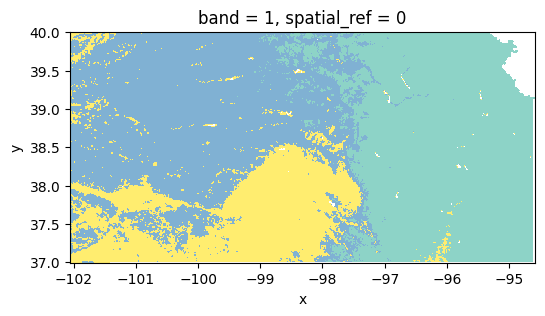
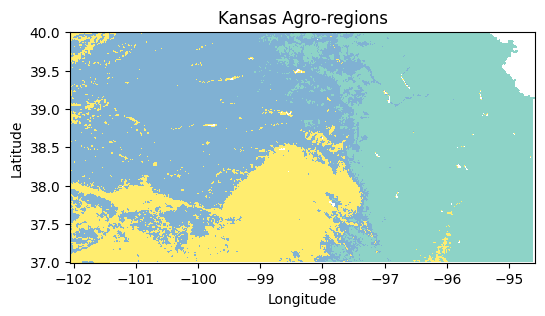
Fix map labels

Changed region(s): [[0.3431, 0.0285, 0.7486, 0.1139], [0.0, 0.3987, 0.0624, 0.5696], [0.4679, 0.9114, 0.6239, 0.9684]]

diff --git a/docs/exercises/clustering_kansas_environments.html b/docs/exercises/clustering_kansas_environments.html
@@ -1052,11 +1052,14 @@ gtag('config', 'G-N9033JNDWZ', { 'anonymize_ip': true});
 <span id="cb23-2"><a href="#cb23-2" aria-hidden="true" tabindex="-1"></a><span class="co">#cluster_labels = np.expand_dims(cluster_labels, axis=0) </span></span>
 <span id="cb23-3"><a href="#cb23-3" aria-hidden="true" tabindex="-1"></a>agro_regions <span class="op">=</span> xr.DataArray(cluster_labels, coords<span class="op">=</span>sand.coords, dims<span class="op">=</span>sand.dims)</span></code><button title="Copy to Clipboard" class="code-copy-button"><i class="bi"></i></button></pre></div>
 </div>
-<div class="cell" data-execution_count="61">
+<div class="cell" data-execution_count="67">
 <div class="sourceCode cell-code" id="cb24"><pre class="sourceCode python code-with-copy"><code class="sourceCode python"><span id="cb24-1"><a href="#cb24-1" aria-hidden="true" tabindex="-1"></a><span class="co"># Plot map (use the x and y coordinates from another layer since the cluster labels don't have coordinates)</span></span>
 <span id="cb24-2"><a href="#cb24-2" aria-hidden="true" tabindex="-1"></a>plt.figure(figsize<span class="op">=</span>(<span class="dv">6</span>,<span class="dv">3</span>))</span>
 <span id="cb24-3"><a href="#cb24-3" aria-hidden="true" tabindex="-1"></a>agro_regions.plot(cmap<span class="op">=</span><span class="st">'Set3'</span>, add_colorbar<span class="op">=</span><span class="va">False</span>)</span>
-<span id="cb24-4"><a href="#cb24-4" aria-hidden="true" tabindex="-1"></a>plt.show()</span></code><button title="Copy to Clipboard" class="code-copy-button"><i class="bi"></i></button></pre></div>
+<span id="cb24-4"><a href="#cb24-4" aria-hidden="true" tabindex="-1"></a>plt.title(<span class="st">'Kansas Agro-regions'</span>)</span>
+<span id="cb24-5"><a href="#cb24-5" aria-hidden="true" tabindex="-1"></a>plt.xlabel(<span class="st">'Longitude'</span>)</span>
+<span id="cb24-6"><a href="#cb24-6" aria-hidden="true" tabindex="-1"></a>plt.ylabel(<span class="st">'Latitude'</span>)</span>
+<span id="cb24-7"><a href="#cb24-7" aria-hidden="true" tabindex="-1"></a>plt.show()</span></code><button title="Copy to Clipboard" class="code-copy-button"><i class="bi"></i></button></pre></div>
 <div class="cell-output cell-output-display">
 <p><img src="clustering_kansas_environments_files/figure-html/cell-17-output-1.png" class="img-fluid"></p>
 </div>
